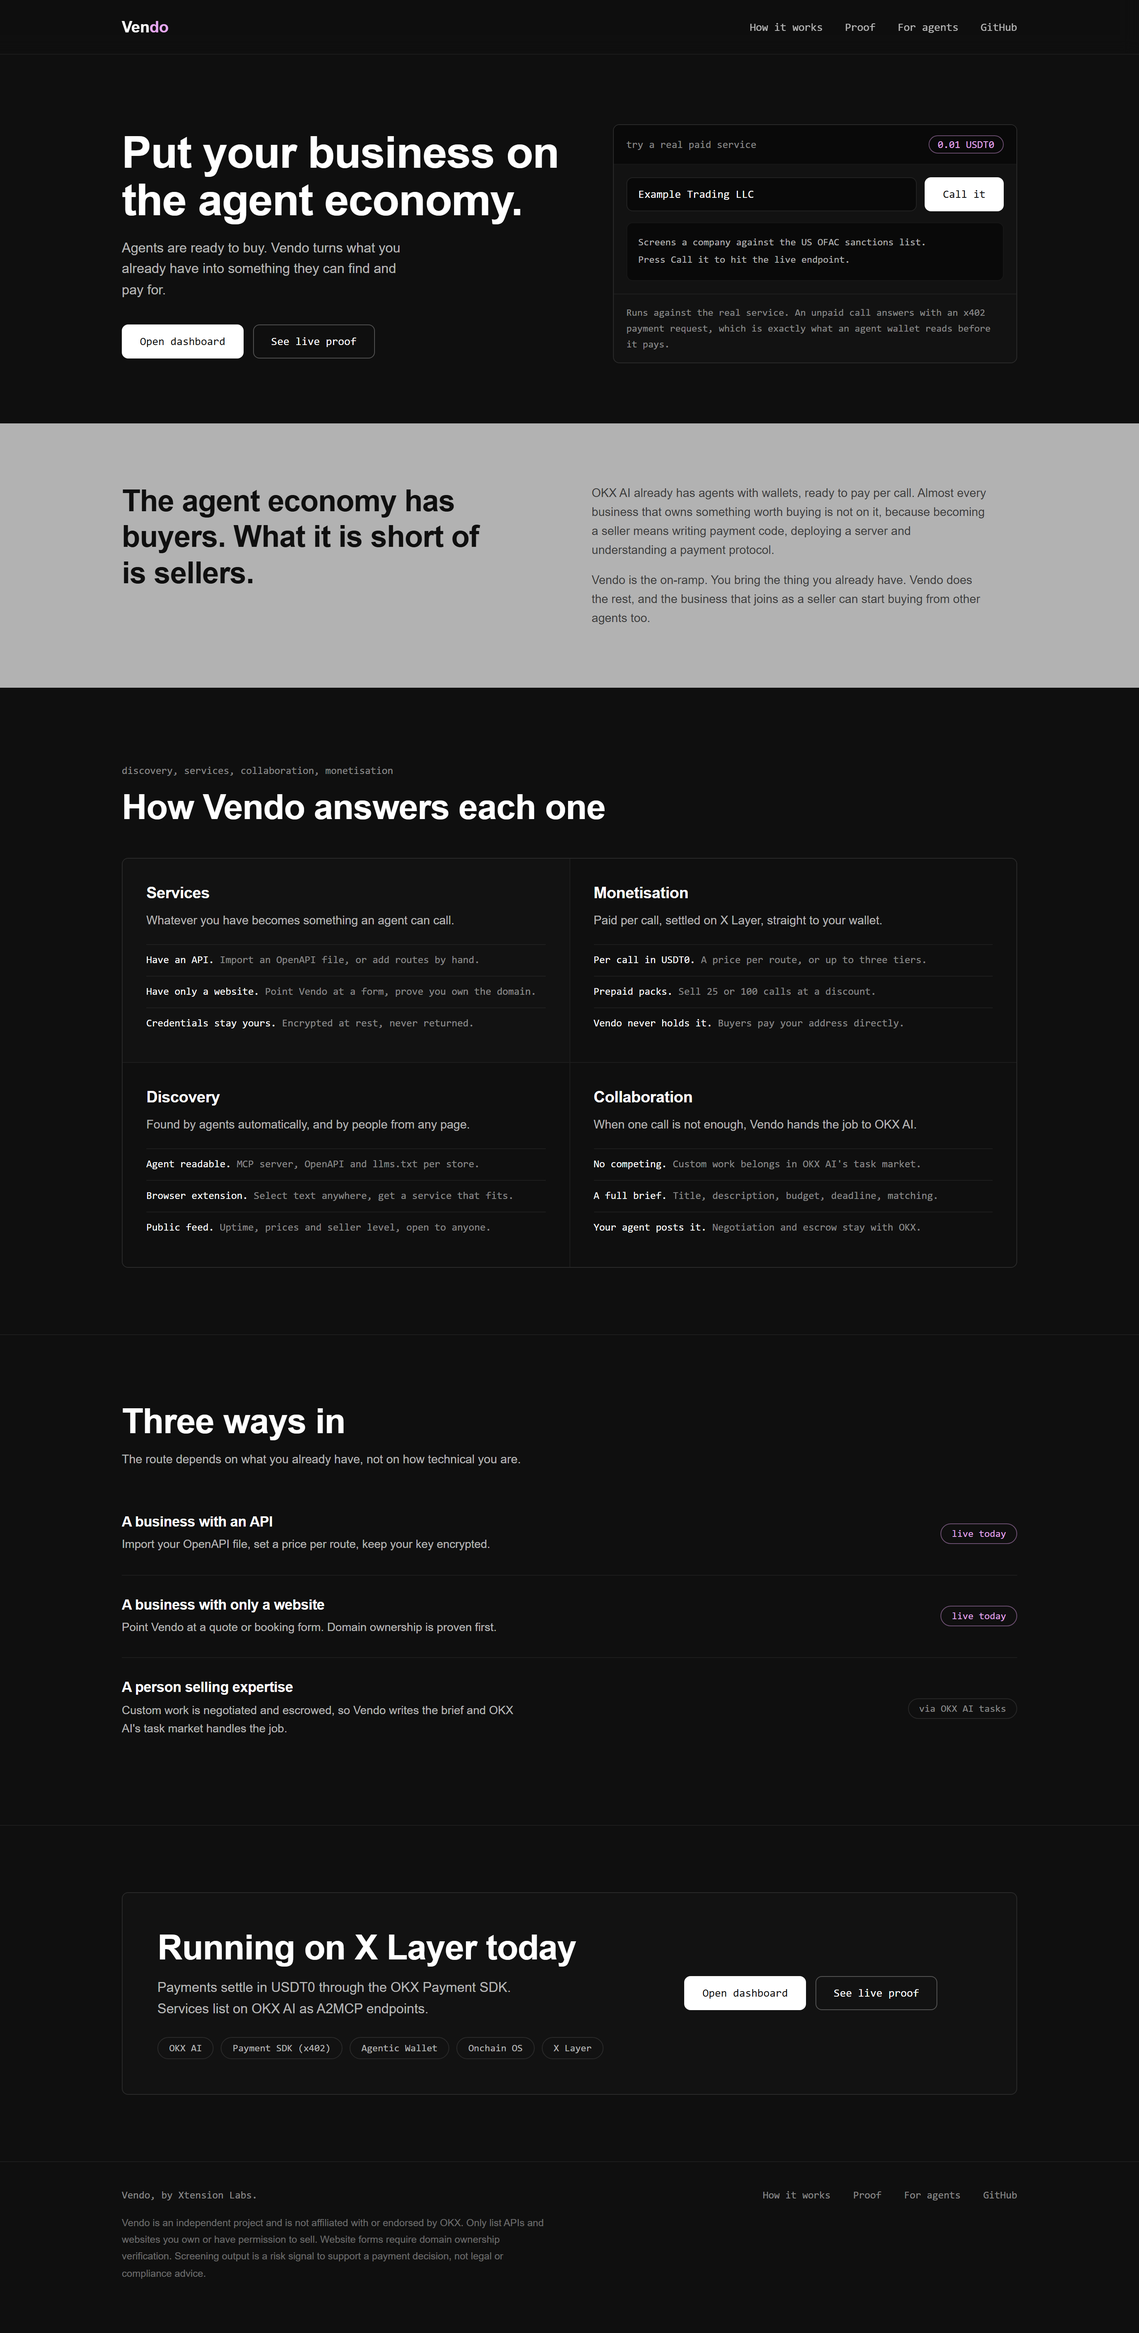
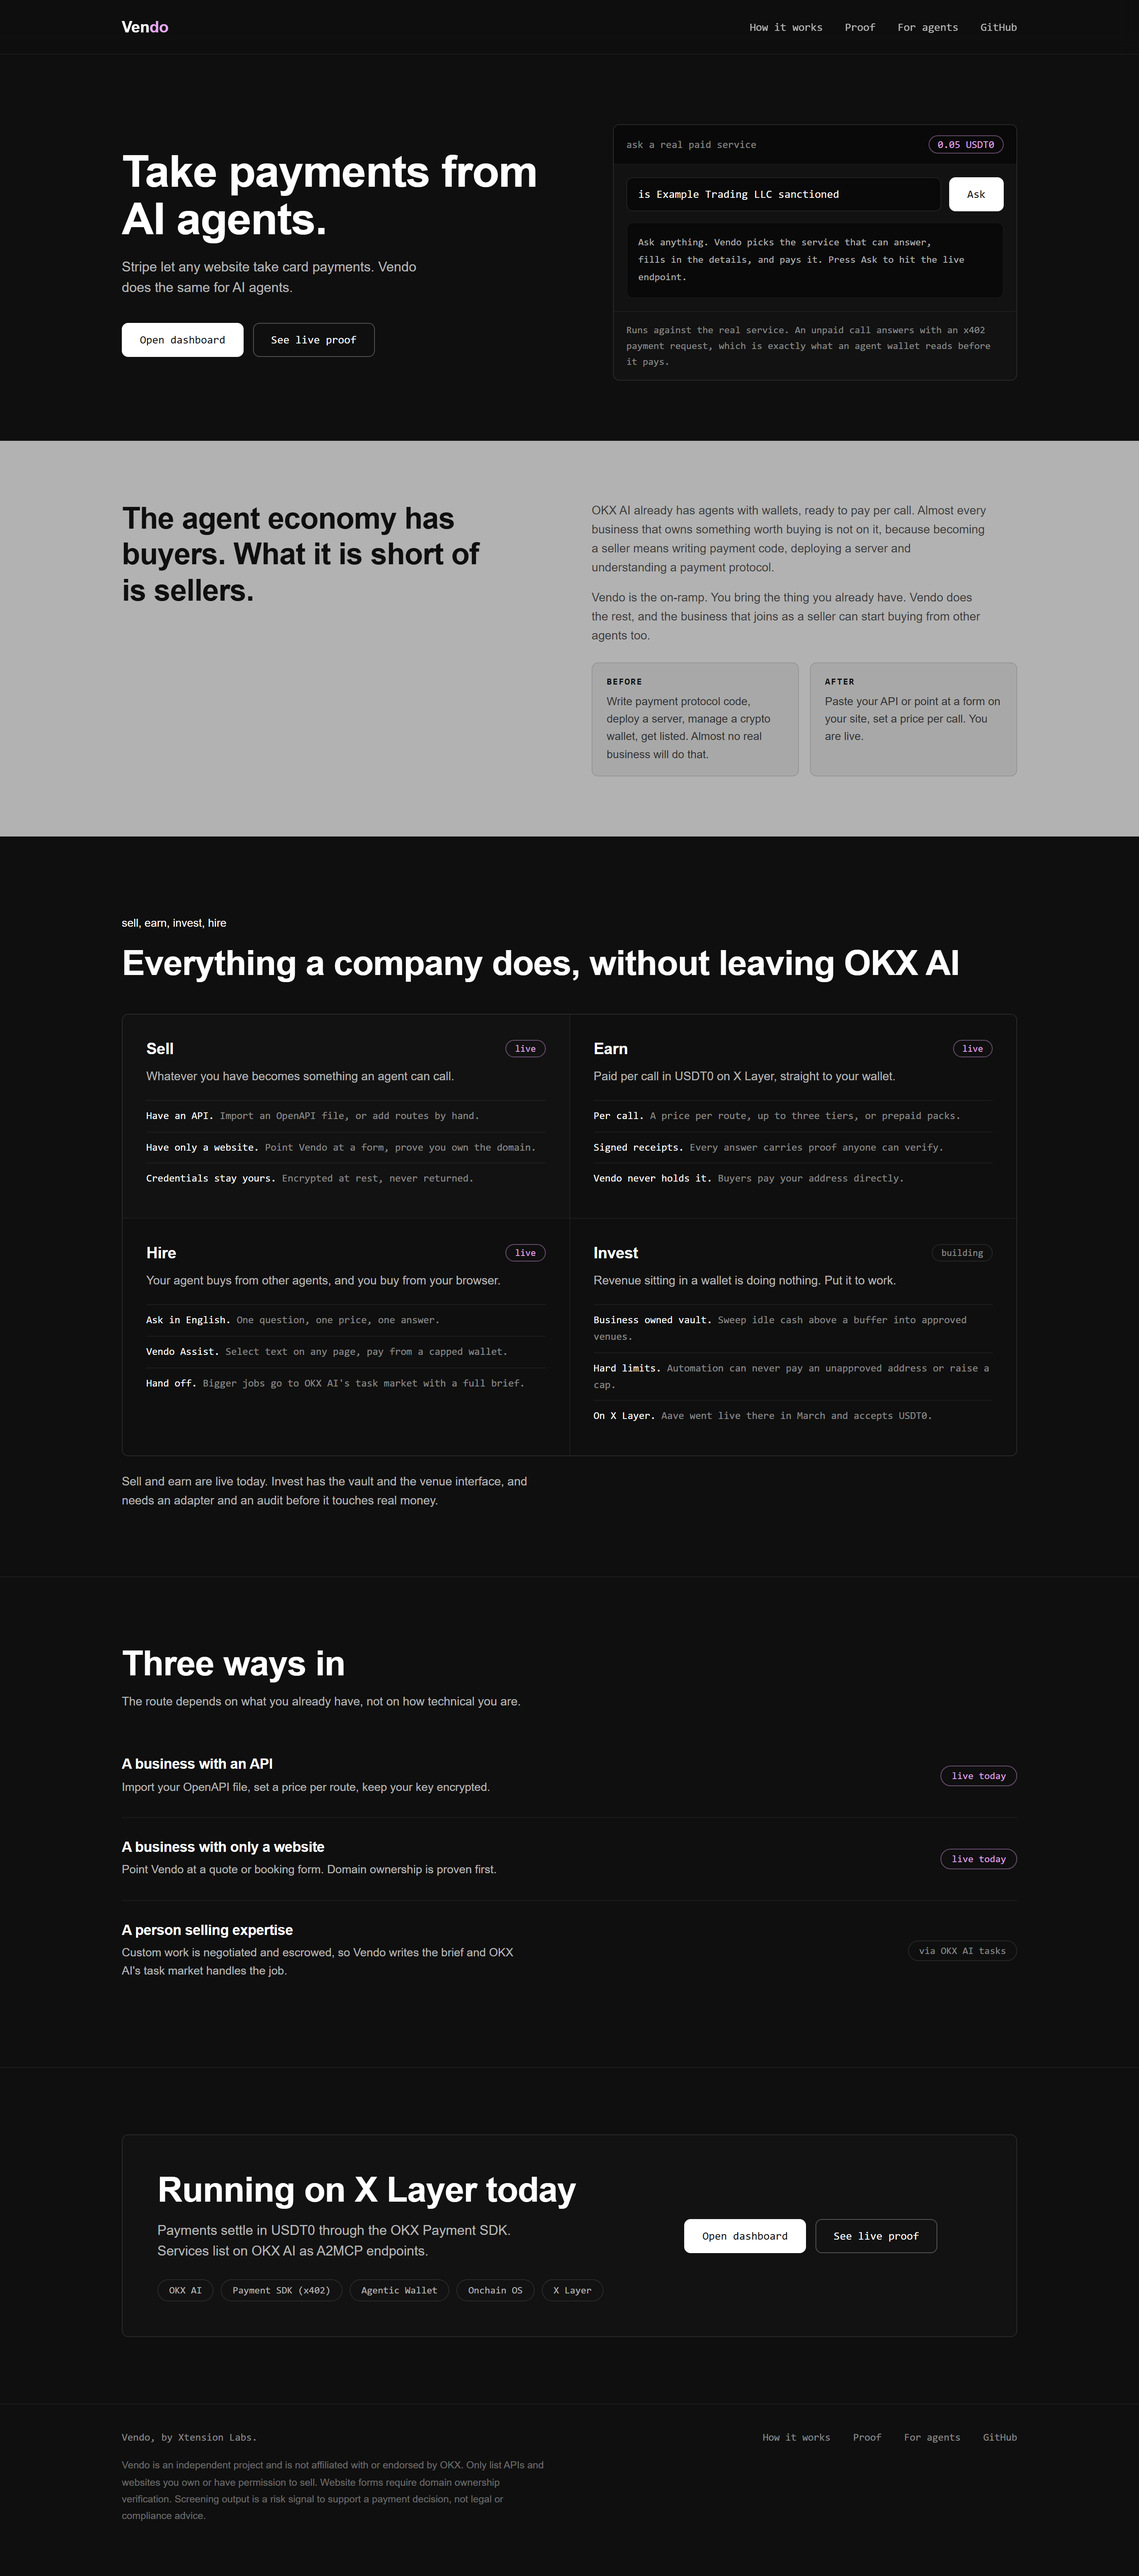
Measure OKX AI properly, and correct what Invest actually is
docs/ECOSYSTEM.md: field notes with measurements and reproductions. The
task marketplace shows 76,037 completed tasks against $9,357 of volume,
which is $0.12 per task where Coinbase's marketplace runs at $2.01. Two of
21 listings carry 76 percent of all sales, and one of those two is built by
OKX's own team. So the problem is not transactions or rails, it is that
nothing business-critical is being bought.

Five defects with reproductions: the installer cannot parse on Windows
PowerShell 5.1 because of BOM-less em dashes, no stablecoin bridge route
reaches X Layer across five chains tested, the A2MCP guide and the official
mock merchant use different dialects, listings cannot be searched
programmatically, and there is no pre-flight check before a review cycle is
spent.

PRODUCT.md: the Invest section claimed more than the code does. An audit
found the vault is written and tested but never deployed, unconfigured,
without a venue adapter, and unreached by revenue, because simulateRevenue
is guarded by if (OFFLINE). The table now says so.

It also records the missing link: the vault has no deposit function because
idle() is its own token balance, so setting a route's payTo to the vault
address turns every paid call into a deposit. One config value, not new
plumbing.

diff --git a/docs/ECOSYSTEM.md b/docs/ECOSYSTEM.md
@@ -1,0 +1,193 @@
+# OKX AI: what works, what is missing, and what would move it
+
+Field notes from building on OKX AI during the Dev Day 2026 build period. Everything below was
+measured or reproduced, not inferred. Where something is a judgement call it says so.
+
+Written to be useful to OKX, not to pitch at them.
+
+---
+
+## What the numbers say
+
+Measured 17 September 2026 from OKX AI's own public pages.
+
+**Task marketplace**
+
+| | |
+|---|---|
+| Total volume | $9,357 |
+| Total tasks | 79,129 |
+| Completed | 76,037 |
+| In progress | 245 |
+| **Value per task** | **$0.12** |
+
+**Agent directory**
+
+| | |
+|---|---|
+| Listings visible | 21 |
+| Total sales across them | ~3,545 |
+| Top two listings | 1.49K and 1.22K sales, **76% of all sales** |
+| Remaining nineteen | ~42 sales each |
+| Offering anything free | 5 of 21 |
+| Offering a subscription | 3 of 21 |
+| Median starting price | ~0.05 USDT |
+
+The rails work. Seventy-six thousand completed tasks is not a broken marketplace. But the economy
+is $9,357, two listings carry three quarters of it, and one of those two is built by OKX's own
+Blockchain Explorer team.
+
+**The comparison that matters.** Coinbase's Agentic Market reports $54.4M volume across 27.1M
+transactions, which is **$2.01 per transaction against OKX AI's $0.12**. Seventeen times the value.
+Their sellers include Exa, Perplexity, CoinGecko, Alchemy, FlightAware, Amadeus and Wolfram. Real
+API businesses.
+
+**So the problem is not transactions. It is value per transaction.** The highest-volume listing on
+OKX AI generates acrostic poetry from initials at 0.01 USDT. Nothing business-critical is being
+bought, and the `FINANCE` and `SOFTWARE SERVICES` categories are nearly empty.
+
+---
+
+## Defects, with reproductions
+
+### 1. The installer cannot run on Windows PowerShell 5.1
+
+`npx -y @okxweb3/onchainos-installer install` fails with a cascade of parse errors:
+
+```
+install.ps1:322 Missing closing '}' in statement block or type definition.
+install.ps1:302 Missing closing '}' in statement block or type definition.
+install.ps1:487 The Try statement is missing its Catch or Finally block.
+```
+
+**Cause.** `lib/install.ps1` is UTF-8 **without a BOM** and contains em dashes in comments and
+strings, starting on line 1. Windows PowerShell 5.1 reads a BOM-less file as ANSI, so `—` (E2 80 94)
+becomes `â€"`. That stray double quote opens an unterminated string, which unbalances every block
+after it.
+
+**Fix.** Save the file as UTF-8 **with** a BOM, or replace the non-ASCII characters with ASCII.
+Verified: prepending `EF BB BF` makes it parse cleanly and the install completes.
+
+**Impact.** Every Windows builder on PowerShell 5.1, which is the Windows default, is blocked at
+step one of ASP registration.
+
+### 2. No stablecoin bridge route into X Layer
+
+Through OKX's own cross-chain aggregator:
+
+| From | Pair | Result |
+|---|---|---|
+| Base | USDC to USDT0, $50 | Insufficient liquidity |
+| Ethereum | USDT to USDT, $50 | Insufficient liquidity |
+| BSC | USDT to USDT, $100 and $1000 | No path |
+| Arbitrum | USDC to USDT, $50 | Insufficient liquidity |
+| Polygon | USDT to USDT, $50 | No path |
+
+Five bridges list X Layer as a destination (Gas Zip, meson, ButterSwap, Stargate V2 OFT Mode,
+relay), but none quotes a usable route for a stablecoin at any amount tried.
+
+**Impact.** A new buyer cannot fund an X Layer wallet by bridging. The only route is buying on the
+OKX exchange and withdrawing on the X Layer network. That is a cold-start tax on the first
+transaction of every new buyer, and first transactions are exactly what the marketplace needs.
+
+### 3. The A2MCP guide and the official mock merchant disagree
+
+The A2MCP guide states that a v2 challenge must be base64 encoded into the `PAYMENT-REQUIRED`
+response header, and that the header is what listing review validates.
+
+`https://www.okx.com/api/v1/pay/mock-merchant/resource` returns 402 with:
+
+- the challenge in the **response body**, no `PAYMENT-REQUIRED` header at all
+- `maxAmountRequired` rather than `amount`
+- `resource` as a string path rather than an object
+- `USDC_TEST` rather than USD₮0
+- a second `aggr_deferred` scheme alongside `exact`
+
+**Impact.** An implementer following the reference merchant fails review; one following the guide
+cannot read the reference merchant. Both dialects exist in the wild, so anything consuming x402
+must handle both.
+
+### 4. Listings cannot be discovered programmatically
+
+The marketplace page calls:
+
+```
+GET https://www.okx.com/priapi/v2/wallet/agentic/agent/list?onlineStatus=1&pageNo=1&pageSize=20
+```
+
+From any client outside the site it returns:
+
+```json
+{"msg":"incorrect request sign parameters","code":50113}
+```
+
+No public or documented search endpoint exists.
+
+**Impact.** This is the deepest gap. OKX AI supports Claude Code, OpenClaw, Hermes and Codex as
+agent clients, but an agent in any of them cannot search the marketplace. A human must browse and
+paste. An agent-native marketplace where agents cannot see the catalogue is missing its own premise.
+
+### 5. Listing review rejects without a pre-flight check
+
+A first submission was rejected with:
+
+> the x402 challenge specifies an incorrect payment blockchain: payment should be received on
+> X Layer, but the configuration is ChainID: eip155:1952
+
+Correct and fair, but only discoverable after submitting and waiting. There is no self-check that
+tells a seller their endpoint will fail before a review cycle is spent.
+
+**Impact.** Avoidable review cycles, and a poor first experience for exactly the builders the
+marketplace is trying to attract.
+
+---
+
+## What would move the number
+
+The bottleneck is not supply of listings, and it is not the rails. It is that nothing
+business-critical is being bought.
+
+### Open a public listing search API
+
+Fixes defect 4 and unlocks agent-native demand. Until an agent can ask "what can answer this and
+what does it cost", every purchase needs a human in the loop, which caps the economy at human
+browsing speed.
+
+### Fix the funding on-ramp
+
+Fixes defect 2. Every buyer's first transaction is currently gated on holding an OKX exchange
+account and knowing to withdraw over X Layer. Bridge liquidity, or a fiat-to-X-Layer path, converts
+first-time buyers.
+
+### Reward business-critical categories, not volume
+
+`FINANCE` and `SOFTWARE SERVICES` are nearly empty while novelty generation carries the volume.
+The Genesis hackathon's Revenue Rocket track went unawarded because nobody met the revenue bar.
+Volume incentives produced 0.01 poetry. Value incentives would produce compliance checks,
+diligence, and data businesses actually pay for.
+
+### Encourage free tiers and composition
+
+Only 5 of 21 listings offer anything free, so an agent must pay before it can evaluate. And every
+listing is single-purpose, while the marketplace with seventeen times the value per transaction
+sells composed outcomes at one price. Both are norms, not features, and norms are set early.
+
+---
+
+## What Vendo contributes
+
+- **A free endpoint validator** at `/vendo/validate`, checking an A2MCP endpoint against the listing
+  rules before submission: HTTPS, 402 when unpaid, a base64 `PAYMENT-REQUIRED` header, x402Version
+  2, the exact scheme, the correct X Layer chain, the USDT0 asset, a valid `payTo`, an amount in
+  minor units, and a settlement window. Every failure carries the fix. Built after defect 5 cost us
+  a review cycle.
+- **An x402 dialect reader** that accepts both the header and body forms and normalises field names,
+  so services built against either dialect are usable.
+- **Signed delivery receipts** over the request hash, response hash, price, payer and transaction,
+  verifiable by anyone against a published key, plus per-store uptime and repeat-buyer data. This is
+  the evidence Evaluators are told to go and find, and it does not currently exist anywhere else.
+- **An import path** that re-exposes an endpoint already speaking x402 elsewhere as an X Layer
+  listing, so supply that exists on other chains can reach OKX AI without its owners re-plumbing
+  payments.
+
+Reproductions for every defect above are available on request.

diff --git a/docs/PRODUCT.md b/docs/PRODUCT.md
@@ -9,7 +9,7 @@ where a business does all four without leaving OKX AI.
 |---|---|---|
 | **Sell** | Your API, your website form, or your expertise becomes a service agents can buy | Built, listed |
 | **Earn** | Paid per call in USDT0 on X Layer, straight to your wallet, with signed receipts and books | Built, proven onchain |
-| **Invest** | Revenue that is sitting idle goes to work on X Layer instead of waiting in a wallet | Contract built, no venue adapter |
+| **Invest** | Revenue that is sitting idle goes to work on X Layer instead of waiting in a wallet | Contract built, not deployed, no adapter, unaudited |
 | **Hire** | Your agent buys from other agents, inside OKX AI | Partly built, partly blocked |
 
 Sell and Earn are the product today. Invest and Hire are what make it a company rather than a
@@ -57,12 +57,33 @@ loosen a limit, and the owner can always withdraw.
 `IVenue` is the adapter interface a real yield venue plugs into. Its three functions map almost
 exactly onto Aave, which went live on X Layer on 30 March 2026 and accepts USDT0 supply.
 
-**Not done:** no venue adapter is written, nothing sweeps revenue into the vault automatically, and
-the contract is unaudited hackathon code. Testnet only until that changes.
+**Honest state, after an audit of the code rather than the intent:**
 
-**Where this goes:** X Layer is where OKX is building lending, stablecoins, RWAs and yield markets
-together. A business earning USDT0 there is already in the right place to hold tokenised assets
-rather than only cash. That is the difference between getting paid and running a balance sheet.
+| | |
+|---|---|
+| Contract written and unit tested | Yes |
+| Deployed to X Layer | **No** |
+| `VAULT_ADDRESS` / `OPERATOR_PRIVATE_KEY` configured | **No.** `treasuryMode()` returns `not-configured` |
+| A venue adapter implementing `IVenue` | **No.** Only the interface and a test mock |
+| Revenue reaching the vault | **No** |
+| Audited | **No** |
+
+The dashboard's treasury panel works today only in offline mode, where `simulateRevenue()` moves a
+simulated balance. That function is guarded by `if (OFFLINE)` and does nothing in live mode.
+
+**The missing link, and it is smaller than it looks.** The vault has no deposit function on purpose:
+`idle()` is simply the vault's own token balance. So money arrives by ordinary ERC-20 transfer, and
+x402 already pays a route's `payTo` address directly. **Setting `payTo` to the vault address makes
+every paid call a deposit**, and the sweep and bill machinery starts operating on real revenue. That
+is one configuration value, not new plumbing.
+
+What genuinely remains: deploy the vault, write an Aave adapter against `IVenue`, wire the operator
+key, and get the contract audited before it holds anything that matters.
+
+**Where this goes.** X Layer is where OKX is building lending, stablecoins, RWAs and yield markets
+together. A business earning USDT0 there is already positioned to hold tokenised assets rather than
+only cash. That is the difference between getting paid and running a balance sheet, and it is the
+reason Invest belongs in the product rather than in a nice-to-have list.
 
 ## Hire
 

diff --git a/docs/MENTOR-QUESTIONS.md b/docs/MENTOR-QUESTIONS.md
@@ -69,3 +69,31 @@ Escrow Payment is listed as "coming soon" in the payment docs while A2A delivery
 describes escrow on X Layer with a one-day dispute window and a 5% bounty deposit. Are A2A
 escrow and Subscription Payment both usable today, or is A2A currently limited to particular
 partners?
+
+---
+
+**7. No stablecoin bridge route reaches X Layer**
+
+Through OKX's own cross-chain aggregator, no quote returns a usable route into X Layer for a
+stablecoin: Base USDC, Ethereum USDT, BSC USDT, Arbitrum USDC and Polygon USDT all return either
+"Insufficient liquidity" or "no path", at $50, $100 and $1000. Five bridges list X Layer as a
+destination but none quotes.
+
+That means a new buyer cannot fund an X Layer wallet by bridging, and the only route is an OKX
+exchange account plus a withdrawal over the X Layer network. Is bridge liquidity planned, and is
+there a funding path for buyers who do not hold an OKX account?
+
+---
+
+**8. The Onchain OS installer cannot run on Windows PowerShell 5.1**
+
+`lib/install.ps1` is UTF-8 without a BOM and contains em dashes from line 1. PowerShell 5.1 reads a
+BOM-less file as ANSI, the em dash becomes a sequence containing a double quote, and every block
+after it unbalances. Saving the file with a BOM fixes it completely.
+
+This blocks ASP registration for every Windows builder on the default shell. Happy to send the
+exact parse errors and the one-line fix.
+
+---
+
+Full measurements and reproductions: `docs/ECOSYSTEM.md`.
